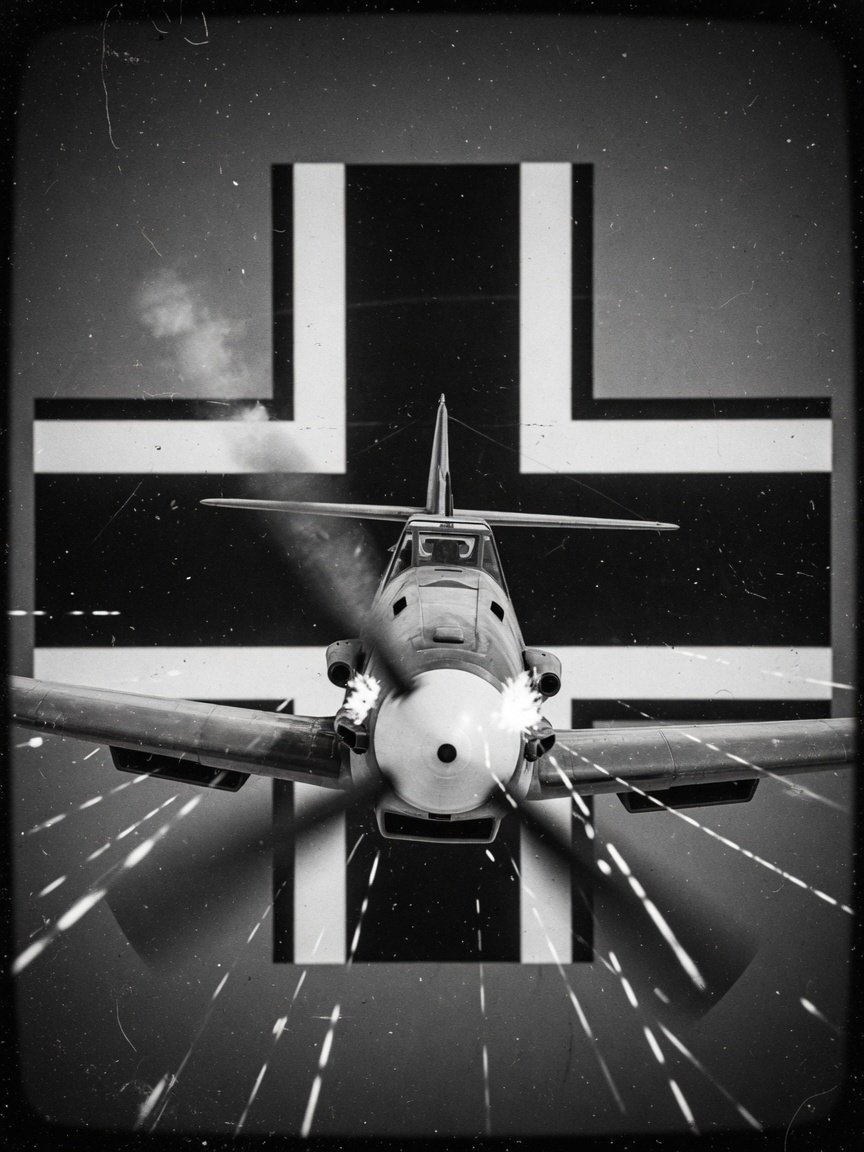
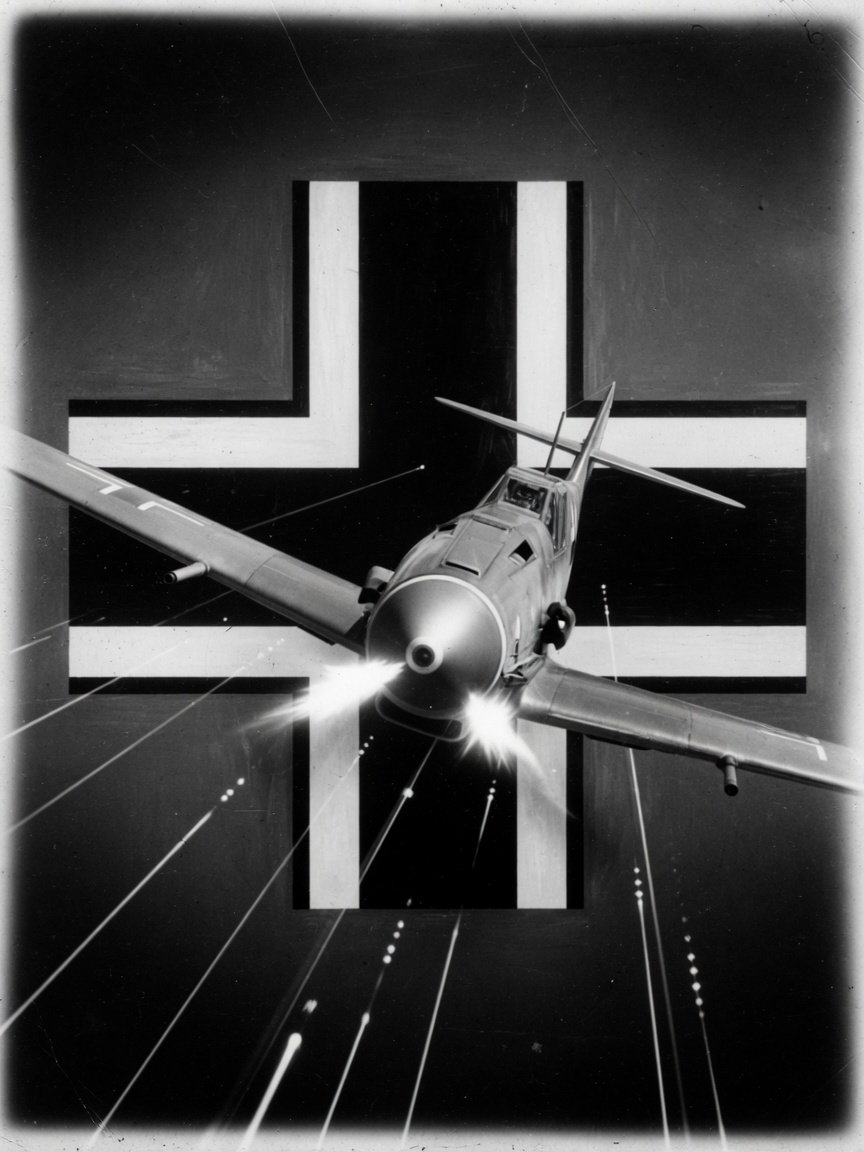
content(ui): 陣營圖再一版 —— 高反差銀鹽照片，主體壓滿框
負責人看了上一版：「感覺還是沒有原圖好看」。

問題在灰。「暗房蒙太奇 ＋ 粗顆粒」把旗子和飛機都推到中間調，海報原本的力道
（大面積純黑對純白、主體壓滿整個框）全被磨平了 —— 換掉的不該只是紙的質地，
還要把對比與構圖的份量還回去。

這一版三張都是 `high contrast silver gelatin print`：飛機佔滿畫面、低角度、
槍口白到爆、黑到底，細顆粒與褪色紙邊留著。國籍圖騰照樣填滿背景。

另外試過兩個方向，沒選：照相凹版報紙（紙感很好，但主體太小）、戲劇打光蒙太奇
（暗部糊掉）。三個方向的提示詞差異記在 `docs/ui/PROMPTS.md`。

三張合計 342 KB（JPEG q85）。

diff --git a/docs/ui/PROMPTS.md b/docs/ui/PROMPTS.md
@@ -5,7 +5,15 @@
 任務內的陣營圖也可以做到這樣嗎?」—— 於是三張都用檔案照的提示詞重生，海報版不留。
 
 **構圖沒有變**：國旗（或國籍圖騰）當背景、前景是正在開火的飛機。變的只有渲染 ——
-從「網版印刷海報 ＋ 半調網點」換成「暗房照片蒙太奇 ＋ 粗顆粒黑白底片」。
+從「網版印刷海報 ＋ 半調網點」換成「**高反差銀鹽照片**」：飛機佔滿畫面、低角度、
+黑得下去白得上來、細顆粒、褪色紙邊。
+
+【為什麼是銀鹽而不是蒙太奇】第一版的「暗房照片蒙太奇 ＋ 粗顆粒」負責人看了說
+「感覺還是沒有原圖好看」—— 問題在灰：旗子和飛機都落在中間調，海報原本的力道
+（大面積純黑對純白、主體壓滿框）全被磨平了。改成 `high contrast silver gelatin
+print` ＋ `filling most of the frame` ＋ `deep blacks and blown highlights` 就回來了。
+另外兩個試過但沒選的方向：照相凹版報紙（`rotogravure ... halftone dot screen`，
+紙感很好但主體太小）、戲劇打光蒙太奇（`theatrical hard lighting`，暗部糊掉）。
 
 【2026-09-04 我在這裡走錯過一次】第一次改的時候把構圖也一起換成單純的空拍檔案照
 （飛機在雲上、沒有國旗），負責人：「我滿喜歡原本的構圖，我只是想改成膠片感而已」。
@@ -18,9 +26,9 @@
 |---|---|---|---|
 | mission.jpg | 主選單 · 任務模式 | 3:4 | Vintage 1944 aerial photograph of a formation of B-17 Flying Fortress bombers leaving long white contrails high over Germany, shot from a nearby escort fighter. Black and white, heavy film grain, slightly faded, high contrast, scratches and dust like an archival print. |
 | skirmish.jpg | 主選單 · 遭遇戰 | 3:4 | A single frame from 1944 WWII fighter gun camera footage: a Messerschmitt Bf 109 seen through the gunsight reticle, banking hard, tracer streaks passing it. Extremely grainy 16mm film, blurred motion, high contrast black and white, dark vignette, film sprocket holes and frame counter numbers along one edge. |
-| allies.jpg | 陣營頁 · 盟軍（星條旗當底） | 3:4 | 1944 wartime propaganda photograph, a darkroom photo montage printed on grainy black and white film: a P-51D Mustang fighter diving steeply toward the viewer, all six machine guns firing with bright muzzle flashes and tracer lines, the Stars and Stripes flag filling the entire background as a huge cloth flag photographed behind the aircraft, dramatic low angle, heroic energy. Entirely black and white monochrome, absolutely no colour anywhere, no selective colour effect, heavy film grain, slightly faded, high contrast, scratches and dust like an archival print, dark vignette. No text, no lettering, no watermark. |
-| germany.jpg | 陣營頁 · 德軍（鐵十字當圖騰，**不用國旗**：1944 年的德國國旗是卍字旗） | 3:4 | 1944 wartime propaganda photograph, a darkroom photo montage printed on grainy black and white film: a Messerschmitt Bf 109 fighter charging head-on toward the viewer, cannon and machine guns firing with muzzle flashes and tracer streaks, behind it a huge Balkenkreuz (straight-armed cross with white outline) filling the entire background as a painted marking, dramatic angle, heroic energy. Absolutely no swastika, no eagle emblem, no flags, plain tail fin with no tail markings. Entirely black and white monochrome, absolutely no colour anywhere, no selective colour effect, heavy film grain, slightly faded, high contrast, scratches and dust like an archival print, dark vignette. No text, no lettering, no watermark. |
-| japan.jpg | 陣營頁 · 日本（日章圓當底，**不是旭日旗**） | 3:4 | 1944 wartime propaganda photograph, a darkroom photo montage printed on grainy black and white film: a Mitsubishi A6M5 Zero fighter climbing steeply and banking toward the viewer, wing cannons firing with muzzle flashes and tracer streaks, behind it one enormous Hinomaru sun disc filling the background as a dark grey circle on a plain pale field, bold composition, heroic energy. Plain round disc only, not the rising-sun ray flag. Entirely black and white monochrome, absolutely no colour anywhere, no selective colour effect, heavy film grain, slightly faded, high contrast, scratches and dust like an archival print, dark vignette. No text, no lettering, no watermark. |
+| allies.jpg | 陣營頁 · 盟軍（星條旗當底） | 3:4 | 1944 wartime propaganda photograph, high contrast silver gelatin print: a P-51D Mustang fighter filling most of the frame, diving steeply toward the viewer at a dramatic low angle, all six machine guns firing with brilliant white muzzle flashes and long tracer lines, a huge Stars and Stripes flag rippling across the entire background behind it, deep blacks and blown highlights, fine film grain, faded edges, dust and fine scratches like an archival print, dark vignette. Entirely black and white monochrome, absolutely no colour anywhere. No text, no lettering, no watermark. |
+| germany.jpg | 陣營頁 · 德軍（鐵十字當圖騰，**不用國旗**：1944 年的德國國旗是卍字旗） | 3:4 | 1944 wartime propaganda photograph, high contrast silver gelatin print: a Messerschmitt Bf 109 fighter filling most of the frame, charging head-on toward the viewer at a dramatic low angle, cannon and machine guns firing with brilliant white muzzle flashes and long tracer streaks, behind it a huge Balkenkreuz (straight-armed cross with white outline) filling the entire background as a painted marking. Absolutely no swastika, no eagle emblem, no flags, plain tail fin with no tail markings. Deep blacks and blown highlights, fine film grain, faded edges, dust and fine scratches like an archival print, dark vignette. Entirely black and white monochrome, absolutely no colour anywhere. No text, no lettering, no watermark. |
+| japan.jpg | 陣營頁 · 日本（日章圓當底，**不是旭日旗**） | 3:4 | 1944 wartime propaganda photograph, high contrast silver gelatin print: a Mitsubishi A6M5 Zero fighter filling most of the frame, climbing steeply and banking toward the viewer at a dramatic low angle, wing cannons firing with brilliant white muzzle flashes and long tracer streaks, behind it one enormous Hinomaru sun disc filling the background as a plain circle, not the rising-sun ray flag. Deep blacks and blown highlights, fine film grain, faded edges, dust and fine scratches like an archival print, dark vignette. Entirely black and white monochrome, absolutely no colour anywhere. No text, no lettering, no watermark. |
 
 跑法：`grok -p "<中文指令，內含上面的英文提示詞，指定存檔路徑>" --permission-mode bypassPermissions --no-subagents --max-turns 6`
 一張約 40 秒，864×1152 或 1152×864。正式版要出 2× 並改成 landscape 3:2。
